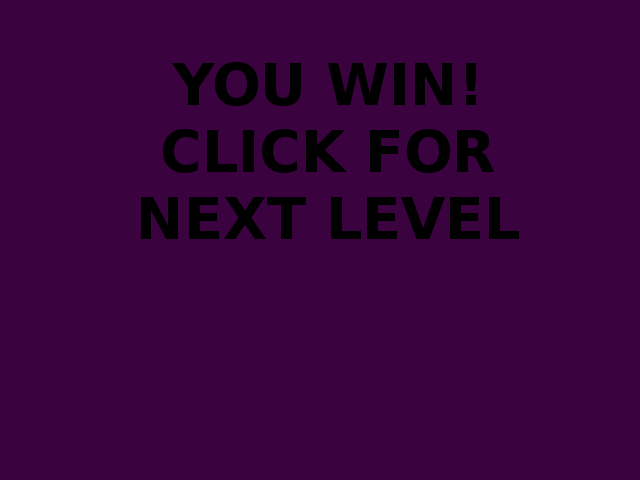
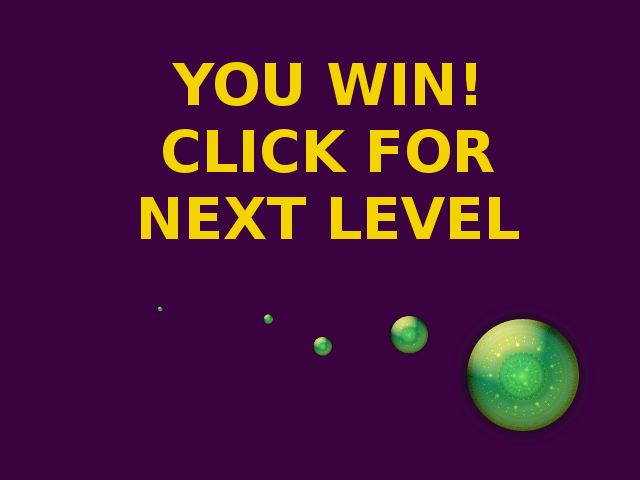
asdasd

diff --git a/title.js b/title.js
@@ -37,4 +37,24 @@ Lose.prototype.scrollHandler = function (e){
 }
 
 
+function Win () {
+}
+
+Win.prototype.update = function () {
+}
+
+
+Win.prototype.draw = function () {
+	G.context.drawImage(G.images.lose, 0,0);
+}
+
+
+Win.prototype.clickHandler = function (e){
+	G.current = new Title();
+}
+
+Win.prototype.scrollHandler = function (e){
+}
+
+
 
